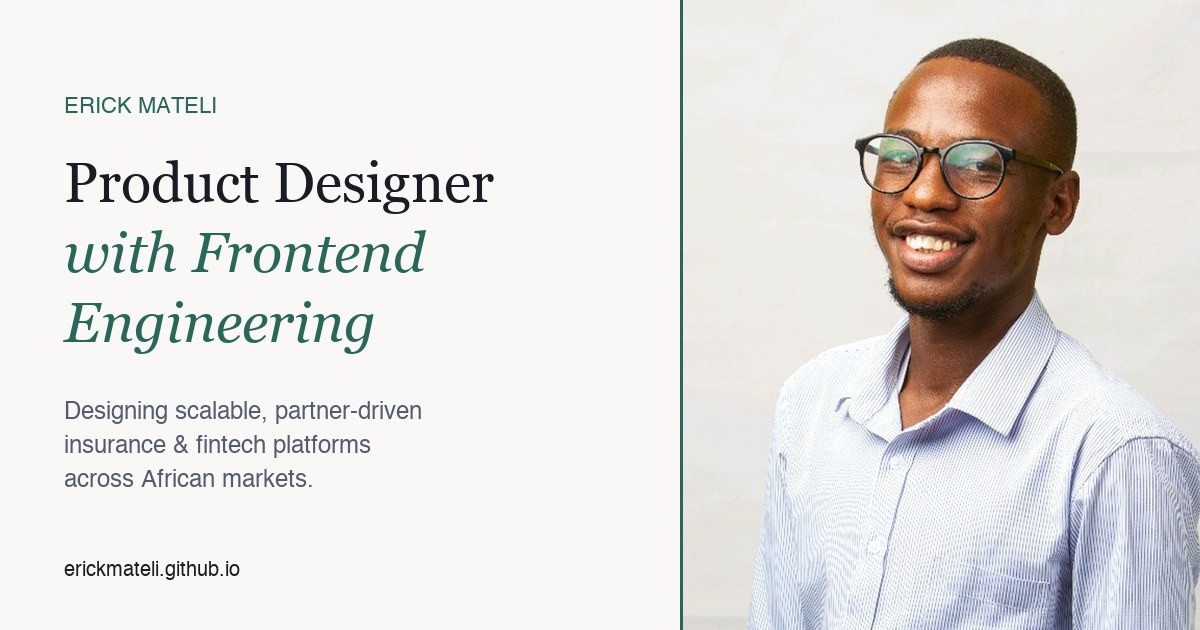
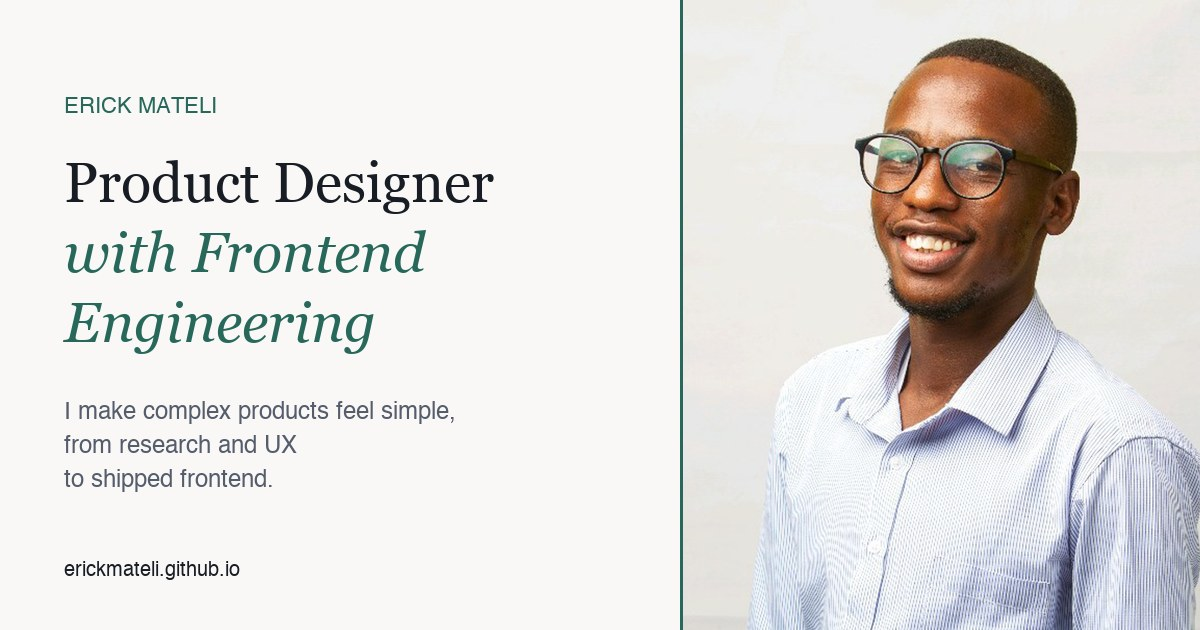
Broaden positioning: hero line, About text, description and share image

Changed region(s): [[0.0308, 0.6333, 0.37, 0.7841]]

diff --git a/src/components/portfolio/AboutSection.tsx b/src/components/portfolio/AboutSection.tsx
@@ -35,22 +35,19 @@ const AboutSection = () => {
         </div>
         <div className="space-y-6 text-muted-foreground font-sans leading-relaxed">
           <p>
-            My career has been a deliberate evolution — from frontend developer to UX
-            designer, then product designer, and now a platform thinker. Each phase
-            built on the last, giving me a rare ability to bridge engineering
-            constraints with user needs and business strategy.
+            I started as a frontend developer, moved into UX, and grew into product design — so I
+            design with an engineer's understanding of what it takes to build and ship.
           </p>
           <p>
-            I've spent years working across multiple African markets, navigating the
-            complexity of partner integrations in fintech and insurtech. This
-            experience taught me that great product design isn't just about
-            interfaces — it's about understanding systems, stakeholders, and the
-            real-world friction that users face.
+            Over 7+ years I've worked on products used across 11 countries: a business directory that
+            grew from 472K to 1.7M users, and an insurance platform now serving 5M customers through
+            banks, telcos and insurers. The common thread is complexity — many users, many partners,
+            and real-world constraints like slow connections and strict regulation.
           </p>
           <p>
-            Today, I focus on designing scalable platforms that serve partners and
-            end-users alike, always grounding my work in data, feasibility, and
-            measurable impact.
+            I'm at my best turning messy systems into products people find easy, and staying close
+            enough to the code to make sure what ships matches what was designed. I'm looking for
+            teams building ambitious products where design and engineering work as one.
           </p>
         </div>
       </div>

diff --git a/index.html b/index.html
@@ -16,11 +16,11 @@
       })();
     </script>
     <title>Erick Mateli — Senior Product Designer, UX &amp; Frontend</title>
-    <meta name="description" content="Erick Mateli is a Product Designer with a frontend engineering background, designing scalable, partner-driven insurance and fintech platforms across African markets." />
+    <meta name="description" content="Erick Mateli is a product designer with a frontend engineering background who makes complex products feel simple — from research and UX to shipped frontend." />
     <meta name="author" content="Erick Mateli" />
 
     <meta property="og:title" content="Erick Mateli — Senior Product Designer, UX &amp; Frontend" />
-    <meta property="og:description" content="Erick Mateli is a Product Designer with a frontend engineering background, designing scalable, partner-driven insurance and fintech platforms across African markets." />
+    <meta property="og:description" content="Erick Mateli is a product designer with a frontend engineering background who makes complex products feel simple — from research and UX to shipped frontend." />
     <meta property="og:type" content="website" />
     <meta property="og:url" content="https://erickmateli.github.io/" />
     <meta property="og:site_name" content="Erick Mateli" />
@@ -34,7 +34,7 @@
     <meta name="twitter:site" content="@erickmateli" />
     <meta name="twitter:title" content="Erick Mateli — Senior Product Designer, UX &amp; Frontend" />
     <meta name="twitter:image" content="https://erickmateli.github.io/og-image.jpg" />
-    <meta name="twitter:description" content="Erick Mateli is a Product Designer with a frontend engineering background, designing scalable, partner-driven insurance and fintech platforms across African markets." />
+    <meta name="twitter:description" content="Erick Mateli is a product designer with a frontend engineering background who makes complex products feel simple — from research and UX to shipped frontend." />
   </head>
 
   <body>

diff --git a/src/components/portfolio/HeroSection.tsx b/src/components/portfolio/HeroSection.tsx
@@ -50,9 +50,8 @@ const HeroSection = () => {
           Background
         </h1>
         <p className="text-lg md:text-xl text-muted-foreground max-w-2xl leading-relaxed font-sans font-light">
-          I design complex, multi-partner platforms — from fintech and insurance to
-          search — combining product design, UX, and frontend engineering to reduce
-          complexity and ship faster.
+          I make complex products feel simple — combining product design, UX and
+          frontend engineering to take ideas from messy systems to shipped experiences.
         </p>
         <dl className="grid grid-cols-2 sm:grid-cols-4 gap-6 max-w-2xl pt-2">
           {[
